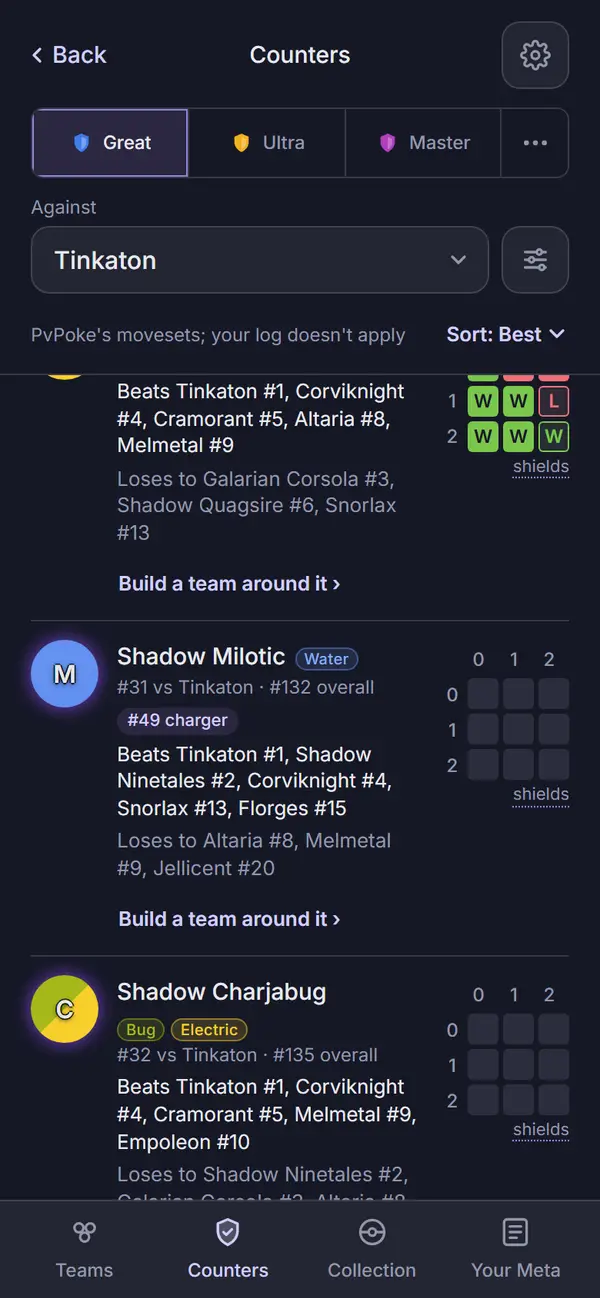
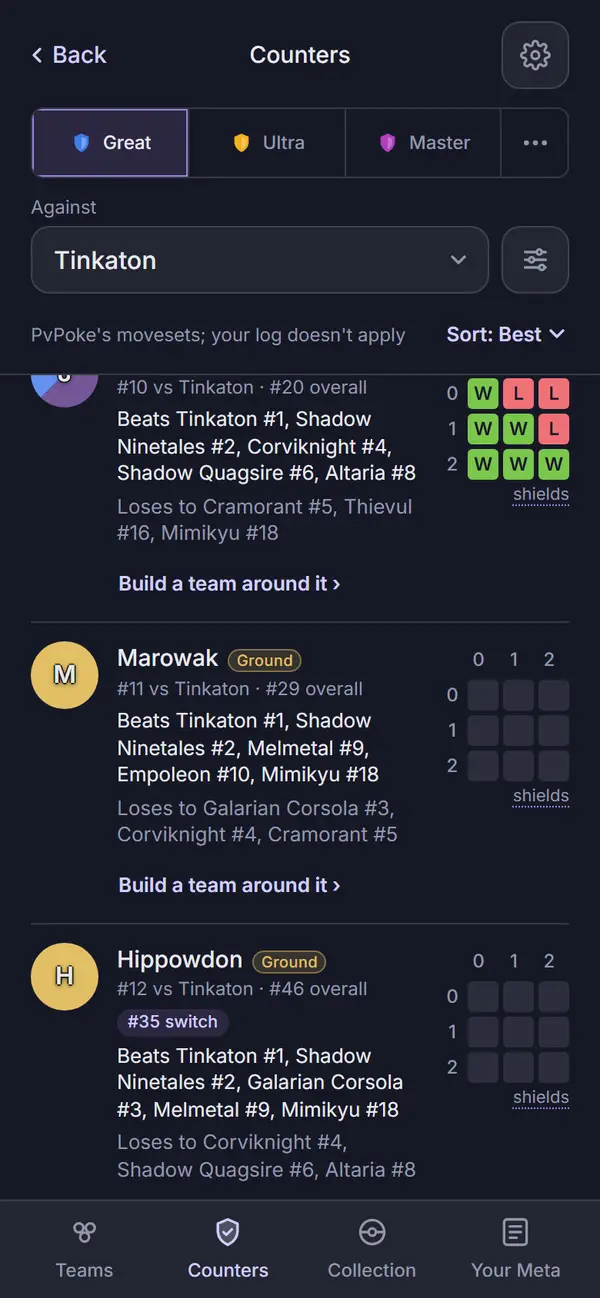
Design: Counters error and loading captures, records after the fix wave
screens.mjs: counters-error (the Worker wrapper answers the next counters
request with an error; the script checks the line, Try again, no empty
state and no line, taps Try again and waits for rows, then puts the
local diagnostics log back) and counters-loading, both enforced.
counters-vs-filling no longer races: before the tap, a wrapper on the
compute worker's own postMessage (set through its CDP session) stops at
a debugger statement right after the first grid batch's progress, and
both shots share that pause. The Filters step also checks that a wrapped
second row link starts where the first does.

counters.md: the new captures, the audit wording (axe passes text scrolled
out of an overflow: auto box, it does not skip it) and what the stricter
check found (20 more not-on-screen lines, each measured elsewhere, no
NEVER), the error open item moved to Findings with the league link,
ShieldGrid label, epoch, last batch, from=1 and link padding fixes,
rulings 19 to 23, and the runs. Re-converted: 08-counters (split at row
40 as before), counters-vs-filling, counters-against and
counters-against-scrolled; the others convert identical.

After sign-off rows (sign-off lines untouched): log-battle.md, new-set.md,
teams.md and settings.md, for the stricter audit's re-run on their pages
and, on Log a Battle, the shared grid's label and class.

Claude-Session: https://claude.ai/code/session_01QpDSW9ZhLWToL3VMBP1mJq

diff --git a/docs/design/audits/counters.md b/docs/design/audits/counters.md
@@ -7,7 +7,8 @@ components, Navigation tab" (back and jumps); the approved renders are the ones 
 2026-09-26 (Counters as one page with an Against picker, the full shield grid on its rows). Spec:
 `docs/superpowers/specs/2026-09-26-design-rest-of-app-design.md`, "Decisions" and "Counters (and
 Who Beats X)". Plan: `docs/superpowers/plans/2026-09-28-counters.md`. Branch `rest-of-app`,
-commits `fc35884` to `aedfd95`.
+commits `fc35884` to `aedfd95`, then the final review's fix wave (`3bbbcb6`, `c69f613`,
+`2f39cac` and the commit adding the new captures and this update).
 
 Counters and Who Beats X are now one page. An Against picker chooses the whole meta or one
 Pokémon. Against one Pokémon, each row shows all nine shield pairings. Rows are not links; each
@@ -28,37 +29,52 @@ taken). No sprite code changed.
 
 ## Screenshots
 
-Dark and light at 390px, one pair per state, all from the Task 6 fix round's `npm run web:audit`
-run on 2026-09-28 (the code committed as `aedfd95`, `PICK3_BUILD=874d675`), converted to WebP
-(600px wide, quality 72). `08-counters` is the whole page, 80 rows; at 600px it is 26732px tall,
-past WebP's limit, so it is two images split at a row divider (rows 1 to 40, then 41 to 80).
+Dark and light at 390px, one pair per state. The Counters pairs are from the final fix wave's
+`npm run web:audit` run on 2026-09-28 (the code committed as `2f39cac` plus that wave's
+`screens.mjs`, `PICK3_BUILD=874d675`), converted to WebP (600px wide, quality 72). Against the
+Task 6 images, `18b-counters-no-collection`, `counters-filters`, `23-counters-vs`,
+`24-counters-vs-outsider`, `counters-against-search` and `counters-unranked` converted byte for
+byte identical; `08-counters` changed where a second row link wraps (row 40), `counters-vs-filling`
+is held at a fixed point now, `counters-against` and `counters-against-scrolled` differ by a few
+dozen anti-aliased pixels. `settings-hub-no-collection` is unchanged from the Task 6 run (it
+converts identical). `08-counters` is the whole page, 80 rows; at 600px it is 26732px tall, past
+WebP's limit, so it is two images split at a row divider (rows 1 to 40, then 41 to 80).
 
 | State | Dark | Light |
 | --- | --- | --- |
 | `08-counters`, rows 1 to 40: the top header (meta.pick3.gg, cog), the league switcher, "Against: The whole meta (48)" with the filter icon, "PvPoke weights only (11 of 15 battles logged)" with "Sort: Best" on one line, then rows: token, name and types, "#1 vs meta · #156 overall", role tag, Beats and Loses, "70%" over "of the meta", "Build a team around it ›" | ![](img/08-counters-dark.webp) | ![](img/08-counters-light.webp) |
-| `08-counters`, rows 41 to 80: "View yours ›" beside Build on Flamigo; the last row, Charizard #80, ends above the tab bar | ![](img/08-counters-end-dark.webp) | ![](img/08-counters-end-light.webp) |
+| `08-counters`, rows 41 to 80: "View yours ›" beside Build on Flamigo; the last row, Charizard #80, ends above the tab bar. Row 40, at the end of the first image: "View your Shadow Rookidee ›" wraps to its own line and starts where "Build a team around it ›" does | ![](img/08-counters-end-dark.webp) | ![](img/08-counters-end-light.webp) |
 | `counters-filters`: the Filters sheet, "Own or can build" chosen, the filter icon reads 1, rows behind filtered (11 of 80), "Build a team around it ›  View your Meltan ›" on one line | ![](img/counters-filters-dark.webp) | ![](img/counters-filters-light.webp) |
 | `18b-counters-no-collection`: no filter icon, "Sort: Best" beside the picker, "Import your collection to mark the ones you own." on one line, rows with only "Build a team around it ›" | ![](img/18b-counters-no-collection-dark.webp) | ![](img/18b-counters-no-collection-light.webp) |
 | `settings-hub-no-collection`: the Settings hub opened from the Counters cog (see Visible changes) | ![](img/settings-hub-no-collection-dark.webp) | ![](img/settings-hub-no-collection-light.webp) |
 | `23-counters-vs`: from Your Meta, "‹ Back", "Counters" centred, the cog; "Tinkaton" in the picker; "PvPoke's movesets; your log doesn't apply"; each row's shield grid with "shields" under it; Seismitoad (9 of 9) at #1, Charizard (8 of 9) at #2 | ![](img/23-counters-vs-dark.webp) | ![](img/23-counters-vs-light.webp) |
-| `counters-vs-filling`: the same page mid-fill (the worker held at a debugger pause), scrolled to where filled grids end: one filled grid, then Shadow Milotic and Shadow Charjabug with empty cells, still in the incoming order (#31, #32) | ![](img/counters-vs-filling-dark.webp) | ![](img/counters-vs-filling-light.webp) |
+| `counters-loading`: the same page mid-fill, at the top: "Playing every shield pairing on this phone" and its bar at 10 of 80, then Shadow Ninetales and Corviknight with their grids in | ![](img/counters-loading-dark.webp) | ![](img/counters-loading-light.webp) |
+| `counters-vs-filling`: the same pause, scrolled to where filled grids end: #10's grid in, then Marowak (#11) and Hippowdon (#12) with empty cells, still in the incoming order | ![](img/counters-vs-filling-dark.webp) | ![](img/counters-vs-filling-light.webp) |
 | `24-counters-vs-outsider`: against Shadow Dragonite (not in PvPoke's meta group, 300 species simulated on the device), grids filled, "#1 vs Shadow Dragonite ·" then "#63 overall" kept together | ![](img/24-counters-vs-outsider-dark.webp) | ![](img/24-counters-vs-outsider-light.webp) |
 | `counters-against`: the Against sheet idle: the search at the top, focused, and "The whole meta ›" under it | ![](img/counters-against-dark.webp) | ![](img/counters-against-light.webp) |
 | `counters-against-search`: "mar" typed, 15 matches in the compact token grid, The whole meta hidden | ![](img/counters-against-search-dark.webp) | ![](img/counters-against-search-light.webp) |
 | `counters-against-scrolled`: the same matches box scrolled to its end (Mareanie to S. Mareep) | ![](img/counters-against-scrolled-dark.webp) | ![](img/counters-against-scrolled-light.webp) |
 | `counters-unranked`: `#/counters?vs=magikarp`: "Magikarp" in the picker, the filter icon, no line and no Sort, then "PvPoke does not rank Magikarp in Great League, so pick3 has no moveset to simulate it with." | ![](img/counters-unranked-dark.webp) | ![](img/counters-unranked-light.webp) |
+| `counters-error`: a run that failed (the capture's Worker wrapper answers the next counters request with an error), the whole meta with a collection: the Against row and the filter icon, no line and no Sort, then "Counters could not be computed." with a violet "Try again" | ![](img/counters-error-dark.webp) | ![](img/counters-error-light.webp) |
 
 The script checks as it shoots: the sub header's title is centred (it logged "-0.0px") and Back
 reads "Back" and lands on `#/meta`; the row link text starts on the name column ("0.0px"; fails
-past 1px); `counters-filters` fails if the first row with two links wraps them; the no-collection
-page has no filter icon and the exact Import line; `counters-unranked` has no line and no Sort;
-`counters-vs-filling` waits for a filled cell, an empty cell and the loading bar;
-`counters-against-scrolled` fails if "mar" stops filling the box.
+past 1px); `counters-filters` fails if the first row with two links wraps them, and if any
+wrapped second link starts off the first ("wrapped second links: 4, off the first by
+[0,0,0,0]px"); the no-collection page has no filter icon and the exact Import line;
+`counters-unranked` has no line and no Sort; `counters-error` fails unless the line is exactly
+"Counters could not be computed.", Try again is there and neither the empty state nor the line is,
+and it taps Try again and waits for rows (the failure's local diagnostics entry is put back after,
+so the Settings captures are unchanged); the worker holds itself at a `debugger` statement right
+after it posts the first grid batch's progress (a wrapper on its `postMessage`, set through its
+CDP session before the tap), so `counters-loading` and `counters-vs-filling` always find a filled
+grid, an empty one and the loading bar, and the loading bar must read "Playing every shield
+pairing"; `counters-against-scrolled` fails if "mar" stops filling the box.
 
-Not captured, covered by `apps/web/test/counters.test.tsx`: the loading bar and its grid stage
-("Playing every shield pairing on this phone"; in `counters-vs-filling` it is above, scrolled away);
-the "shields" `Term` open; the Sort dropdown open (a native picker); "Nothing here yet. Try another
-filter."
+Not captured, covered by `apps/web/test/counters.test.tsx`: the "shields" `Term` open; the Sort
+dropdown open (a native picker); the three empty lines ("Nothing here yet. Try another filter."
+when the filter hides every row, "Nothing in Great League beats Azumarill in any shield pairing.",
+"No counters to show."); the error state against one opponent and without a collection.
 
 ## Grid time
 
@@ -67,29 +83,44 @@ The spec's estimate was about 0.5 s for 720 battles (80 rows, nine each) in Node
 - **Node, desktop (Task 1):** 280 to 430 ms for 720 battles, two runs each against Altaria,
   Charjabug and Quagsire (an outsider).
 - **The built app, desktop (Task 6):** the outsider run, Shadow Dragonite, took 160 to 181 ms for
-  its grids across runs (165 ms in the run these images come from, after simulating 300 species;
-  the whole result at 516 ms). The Tinkaton run logged 4321 ms, but that number includes the
-  deliberate debugger pause that holds the worker for `counters-vs-filling`, so it is not a grid
-  time. An earlier unheld probe of Tinkaton: 10 batches of 8 rows in about 210 ms.
+  its grids across runs (165 ms in the Task 6 run). The Tinkaton run's number includes the
+  deliberate debugger pause that holds the worker for `counters-loading` and
+  `counters-vs-filling`, so it is not a grid time. An earlier unheld probe of Tinkaton: 10
+  batches of 8 rows in about 210 ms.
 
 Not measured on a phone (see Open items).
 
 ## Automated checks
 
-- [x] `npm run web:audit` clean for this page's screens (all ten names above in `AUDIT_ENFORCED`,
-      plus `settings-hub-no-collection`): the Task 6 fix round's run on the `aedfd95` code with
-      `PICK3_BUILD=874d675` exited 0 with zero findings on every enforced name in both themes and
-      every enforced name captured. No NEVER line; the only "Not on screen, unmeasured" lines are
-      the known eight `settings-about-leaves` ones, each measured in `settings-about`. 67 findings
-      remain on screens not yet redesigned (Welcome, Import, Scan list, Report, Add Pokémon), none
-      failing. I did not re-run it for this record. The audit does not check text scrolled out of
-      a fixed-height list (Open items); `counters-against-scrolled` covers Counters' one such list.
-- [x] no console errors: the run printed no "Browser errors" section.
+- [x] `npm run web:audit` clean for this page's screens (all twelve Counters names above in
+      `AUDIT_ENFORCED`, plus `settings-hub-no-collection`): the final fix wave's run
+      (`PICK3_BUILD=874d675`, the code as committed in `2f39cac` plus that wave's `screens.mjs`)
+      exited 0 with zero findings on every enforced name in both themes and every enforced name
+      captured. No NEVER line and no "Browser errors" section. 67 findings remain on screens not
+      yet redesigned (Welcome, Import, Scan list, Report, Add Pokémon), none failing.
+- [x] the audit now checks text scrolled out of a scroll box (`3bbbcb6`, ruling 12). axe clips
+      text to `overflow: hidden` only, so it passed text scrolled wholly out of an
+      `overflow: auto` box against the box's background, and the audit counted that text as
+      measured: the NEVER check could not fire on it. axe passes such text; it does not skip it.
+      Every node axe passes is now asked whether any of its lines is on screen; one that is not
+      is "not on screen, unmeasured", like an undecided node out of sight. `ui:audit` has a
+      fourth self-check for it (ten lines in a 100px box), which fails on the old tool. What the
+      new check turned up across the whole web run (the same code audited with the old tool, then
+      the new): the "Not on screen" list grew from the eight `settings-about-leaves` lines to 28,
+      and each of the 20 new lines is measured in another capture of its page in the same theme,
+      so none is NEVER: `settings-about-leaves` (the build line and "Check for updates", measured
+      in `settings-about`), `teams-filters-excluded` (the Source note, measured in
+      `teams-filters-sheet`), `counters-against-search` (the last row's "M" initial, measured in
+      its scrolled capture) and `counters-against-scrolled` (the first row, measured in
+      `counters-against-search`). The 67 findings on screens not yet redesigned are the same 67. Log a Battle's and New set's matches boxes, Build's picker list
+      and the sheets hold every line on screen in their captures, so nothing there is hidden and
+      no capture was added. `npm run meta:audit` (no report, so hidden text would fail at once)
+      exit 0 with no "scrolled out" line. `npm run ui:audit`: "gallery audit: clean in dark and
+      light", all four self-checks pass.
+- [x] no console errors: the web run printed no "Browser errors" section.
 - [x] `npm run lint`, `npm run typecheck`, `npm test`, `npm run check-colors`, `npm run
-      check-tokens`: re-run for this record on 2026-09-28 on `aedfd95`. lint exit 0; typecheck
-      exit 0; 147 files, 1426 tests passed; check-colors exit 0; "check-tokens: ok". `npm run
-      ui:audit` (the ui Select rule now shared with the Against picker): "gallery audit: clean in
-      dark and light" in Task 6, not re-run here.
+      check-tokens`: re-run on 2026-09-28 on the fix wave's code. lint exit 0; typecheck exit 0;
+      147 files, 1436 tests passed; check-colors exit 0; "check-tokens: ok".
 
 ## Aesthetics
 
@@ -113,14 +144,14 @@ Not measured on a phone (see Open items).
       Meta (`23-counters-vs`, `counters-vs-filling`, `24-counters-vs-outsider`).
 - [x] rows align; gutters and the 8px base hold: one gutter from the header to the last row; link
       text on the name column (measured, 0.0px); grids beside the text with room, none crowding it
-      (`23-counters-vs`). Exception under Open items: a long "View your Shadow Rookidee ›" wraps to
-      its own line, about 2px left of the link above it (`08-counters`, row 40).
+      (`23-counters-vs`). A long "View your Shadow Rookidee ›" wraps to its own line and starts
+      where the link above it does (`08-counters`, row 40; measured, 0px, fails past 1px).
 - [ ] sprites unchanged: cannot confirm (no sprite build, see the top). No sprite code changed.
 - [x] at most one line of text before the first result: the facing line, the one-opponent line or
       the Import line, each one line with Sort beside it or above it (`08-counters`,
       `23-counters-vs`, `18b-counters-no-collection`); none under an unranked opponent
       (`counters-unranked`). The two description paragraphs are gone.
-- [x] light as readable as dark: eleven matched pairs, and the audit's contrast pass is clean in
+- [x] light as readable as dark: thirteen matched pairs, and the audit's contrast pass is clean in
       both themes.
 
 ## Functionality
@@ -133,7 +164,8 @@ Not measured on a phone (see Open items).
       replaces it, your decision); the ownership filter and the paths to your Pokémon and to Build
       (tested); the honesty lines, now "PvPoke's movesets; your log doesn't apply" and the
       unranked empty state (`23-counters-vs`, `counters-unranked`); a meta.pick3.gg link lands in
-      its league (tested); the facing weight line on the whole meta (`08-counters`).
+      its league and then lets the league switcher change it (tested); a failed run says so with
+      Try again (`counters-error`, tested); the facing weight line on the whole meta (`08-counters`).
 - [x] every control does what its label says (tests): the cog opens Settings (and the capture now
       opens it from this cog); the picker reads "The whole meta (48)" or the opponent and opens
       Against; typing filters species, The whole meta shows only with an empty search; choosing
@@ -149,19 +181,23 @@ Not measured on a phone (see Open items).
       searching (`counters-against`, `counters-against-search`, `counters-against-scrolled`).
 - [x] icon buttons named; focus visible: "Settings", "meta.pick3.gg, the community meta",
       "Filters" or "Filters, 1 on", the picker named by its label and value ("Against Tinkaton"),
-      the Sort combobox named "Sort", the grid read as "Wins N of 9 shield pairings" (tests); the
-      picker shares the ui Select's focus ring.
+      the Sort combobox named "Sort", the grid read as "Wins N of 9 shield pairings", or while its
+      row fills "Shield pairings still being played" (none in) or "Wins N of M so far" (tests);
+      the picker shares the ui Select's focus ring.
 - [x] product rules: everything runs on the device; no new outbound call; `index.html` and
       `connect-src` unchanged; the collection stays in IndexedDB. Assumptions: the one-opponent
       line and the "shields" `Term` say what each cell is (PvPoke's movesets and default IVs).
-- [x] tests cover the new behavior: `apps/web/test/counters.test.tsx` (23 tests: headers and
-      Back, the picker and the Against sheet, replace-navigation, the line and Sort, the Filters
-      sheet, no collection, rows not links, the grid and its `Term`, the links, the round trip,
-      loading and empty cells, per-list scroll, re-sort in place, both empty messages);
-      `countersGrid.test.tsx` (5: the stream, drops on a league or opponent change, grids keep
-      filling off the page, the WorkerHost routing); `shieldGrid.test.tsx` (6);
-      `packages/engine/test/counters/counters.test.ts` (the grid, its order, batches, the
-      movesets); `store.test.tsx` and `yourMetaScreen.test.tsx` (the back mark).
+- [x] tests cover the new behavior: `apps/web/test/counters.test.tsx` (31 tests: headers and
+      Back, the linked league and letting go of it, the picker and the Against sheet,
+      replace-navigation, the line and Sort, the Filters sheet, no collection, rows not links, the
+      grid and its `Term`, the links, the round trip, loading and empty cells, a run left behind
+      by a collection change, per-list scroll, re-sort in place, the unranked and three other
+      empty messages, the error state four ways); `countersGrid.test.tsx` (5: the stream, drops on
+      a league or opponent change, grids keep filling off the page, the WorkerHost routing);
+      `shieldGrid.test.tsx` (7, with the filling labels);
+      `packages/engine/test/counters/counters.test.ts` (the grid, its order, every batch but the
+      last, the movesets); `store.test.tsx` (the back mark with and without an opponent;
+      countersError) and `yourMetaScreen.test.tsx` (the back mark).
 
 ## Findings and fixes
 
@@ -181,6 +217,16 @@ Not measured on a phone (see Open items).
 | Task 6: the audit did not report Against matches scrolled out of the box. | `counters-against-scrolled` (ruling 18); the tool fix is ruling 12. | `f694bb7` |
 | Controller, on `23-counters-vs`: the row links started at the row's left edge, under the token. | They start on the name column; the script measures it. | `aedfd95` |
 | Task 6 review: under an unranked opponent, the one-opponent line and Sort sat over nothing. | Both hidden there (ruling 17). | `aedfd95` |
+| Final review 1, Important: the audit trusted axe's passes, and axe passes text scrolled wholly out of an `overflow: auto` box (it clips to `overflow: hidden` only), so text never on screen counted as measured and NEVER could not fire. | Every pass is asked whether a line of it is on screen; one that is not is unmeasured. A fourth `ui:audit` self-check (it fails on the old tool). The full web run found 20 more "not on screen" lines, all measured in another capture of their page; no NEVER, no capture added (Automated checks). | `3bbbcb6` |
+| Final review 2, Important (the open item from Task 7): a failed run stored an empty result that counted as fresh, so the page never asked again; against one opponent or with no collection it read "Nothing here yet. Try another filter." | `countersError` in the store; Counters shows "Counters could not be computed." with "Try again" (ruling 19), line and Sort hidden; tested four ways; `counters-error`, enforced. The empty lines now say what is true (ruling 20). | `c69f613`, captures in the commit adding this row |
+| Final review 3, Important: a meta.pick3.gg link kept its league on the route, so every other league the player picked switched straight back. | Once the linked league is in play the route is replaced without it (ruling 23); tested: Ultra lands, then Great stays. | `c69f613` |
+| Final review 4: a grid still filling read "Wins 0 of 9 shield pairings". | "Shield pairings still being played", or "Wins N of M so far" (ruling 21); tested. | `2f39cac` |
+| Final review 5: the larger grid's modifier was `.row`, the global flex utility in `base.css`. | `.fo-grid-lg`; `23-counters-vs` and `24-counters-vs-outsider` convert byte for byte identical. | `2f39cac` |
+| Final review 6 (deferred in Task 2): an import or a new log mid-run re-landed rows with the old owned marks. | `countersEpoch`, bumped by an import, the log, Forget and a facing change; a run from an older epoch lands nothing and Counters asks again; tested. | `2f39cac` |
+| Final review 7 (deferred in Task 2): the last batch posted one unsorted partial just before the sorted result; the host's comment said partials always come with an opponent. | Every batch but the last is reported (ruling 22); the comment names both exceptions. | `2f39cac` |
+| Final review 8 (deferred in Task 6): `counters-vs-filling` could race on a fast machine; the loading bar was not captured. | The worker holds itself at a `debugger` statement after the first batch's progress; `counters-loading` (at the top) and `counters-vs-filling` share the pause, both enforced. | the commit adding this row |
+| Final review 9 (deferred in Task 4): no test for `#/counters?from=1` without an opponent. | A `store.test.tsx` round trip. | `2f39cac` |
+| Final review 10 (open item from Task 6): a wrapped "View your Shadow Rookidee ›" sat about 2px left of the link above it. | Every row link keeps 8px on the left and 4px on the right (0 on the last); the script checks each wrapped second link (0px). | `2f39cac` |
 
 ## Rulings
 
@@ -218,6 +264,7 @@ From the controller during the build:
     not that list's saved one. Nothing wrong lands. [If wrong: a scroll, on a rare path.]
 12. **The audit's scroll-clip gap is fixed in this branch's final fix wave,** with a full
     `web:audit` re-run. [If wrong: a bigger final wave, possibly new findings on signed pages.]
+    Done in `3bbbcb6`; the re-run found nothing hidden on a signed page.
 
 Made while building:
 
@@ -234,13 +281,35 @@ Made while building:
 18. **`counters-against-scrolled` is a tenth enforced capture,** for the rule that a scrolling
     sheet list needs a scrolled capture. [If wrong: one capture.]
 
+From the final review's fix wave:
+
+19. **A failed run reads "Counters could not be computed." with a secondary "Try again"**, as
+    Teams does; the page does not ask again on its own, but a new league, source, import or log
+    clears the error and it asks then. [If wrong: the line, or a retry on its own.]
+20. **The empty lines:** "Nothing here yet. Try another filter." only when the ownership filter
+    hid every row; "Nothing in <league> beats <name> in any shield pairing." when nothing beats
+    one opponent (the engine keeps a counter only when it wins at least one shield scenario);
+    "No counters to show." on the whole meta. [If wrong: three strings.]
+21. **A grid still filling reads "Shield pairings still being played"** with no pairing in, and
+    "Wins N of M so far" with some. [If wrong: one label.]
+22. **The last grid batch is not reported;** the sorted result follows it at once. [If wrong: one
+    extra partial.]
+23. **A linked league leaves the route once it is in play.** An unknown league id stays on the
+    route and is ignored, as before. [If wrong: one navigate.]
+
 ## Visible changes outside Counters
 
 - **The shield grid is shared** (`apps/web/src/components/ShieldGrid.tsx`, moved from Log a
   Battle's `OpponentCard`). Log a Battle looks the same: `21-log-battle` and `log-battle-card`
   match their signed images (compared in Task 6; I compared `log-battle-card` side by side
-  again). For screen readers its grid is no longer hidden: it reads "Wins N of 9 shield
-  pairings" (ruling 10). New: empty cells while a row fills, and a larger row size.
+  again; in the final fix wave `21-log-battle` and `log-battle-card` convert byte for byte
+  identical). For screen readers its grid is no longer hidden: it reads "Wins N of 9 shield
+  pairings" (ruling 10). New: empty cells while a row fills, with their own label (ruling 21; a
+  card's grid is always complete), and a larger row size (`.fo-grid-lg`).
+- **The audit tool** (`scripts/audit.mjs`) no longer counts text axe passes as measured when it
+  is scrolled out of its box, for every page (see Automated checks). `log-battle.md`,
+  `new-set.md`, `teams.md` and `settings.md` carry an after sign-off row for it (the last two
+  for the lines the check lists on their pages, each measured in another capture).
 - **The route's back mark:** `#/counters?vs=<id>&from=1`. Your Meta's "Who beats it" links carry
   it; meta.pick3.gg links never do, so they get the top header.
 - **The grid in the engine and the worker:** `counterGrids` and `CounterEntry.grid` in the engine;
@@ -253,8 +322,10 @@ Made while building:
 - **The Settings no-collection shot is back on the Counters cog,** restoring the check that
   Counters' cog opens Settings (Settings' round-3 open item). `settings.md` has an after sign-off
   note; its image pair is replaced (the page behind the sheet is now Counters).
-- **`screens.mjs`:** ten Counters captures, all enforced; it logs the grid time through a Worker
-  wrapper (automation only; the app has no hook).
+- **`screens.mjs`:** twelve Counters captures, all enforced; it logs the grid time through a
+  Worker wrapper, which can also answer one counters request with an error for `counters-error`,
+  and it holds the compute worker with a wrapper on the worker's own `postMessage` for
+  `counters-loading` and `counters-vs-filling` (automation only; the app has no hook).
 
 ## Open items for Travis
 
@@ -262,32 +333,22 @@ Made while building:
   (`18b-counters-no-collection`) instead of on the line (`08-counters`), so the Import line fits
   one line (ruling 16). Keep, or shorten the Import line and keep Sort in one place.
 - **Two row links share a line only for short names.** "Build a team around it ›  View your
-  Meltan ›" fits; "View your Shadow Rookidee ›" wraps to its own line, about 2px left of the link
-  above it (`08-counters`, Shadow Corviknight, row 40). Keep the wrap, or stack the links always.
+  Meltan ›" fits; "View your Shadow Rookidee ›" wraps to its own line, now starting where the link
+  above it does (`08-counters`, Shadow Corviknight, row 40). Keep the wrap, or stack the links
+  always.
 - **The sub header carries only Settings,** not the meta.pick3.gg link, as on the Pokémon page
   (`23-counters-vs`). Say if it should carry both.
-- **The audit tool does not check text scrolled out of a fixed-height list** (it trusts axe, which
-  skips clipped text). Being fixed in this branch's final fix wave (ruling 12), with a full
-  re-run; until then `counters-against-scrolled` covers Counters. Log a Battle's and New set's
-  token boxes may hide the same.
 - **The Teams Filters sheet's title is left-aligned;** Counters' sheets and Settings centre theirs.
   Not changed here.
-- **A failure is said only on the whole meta with a collection.** When counters cannot be computed,
-  the page gets no rows and the reason "Counters could not be computed" in the facing line. The old
-  page always showed that line; now it shows only on the whole meta with a collection. Against one
-  opponent, or without a collection, a failure reads "Nothing here yet. Try another filter."
-  Not tested, not captured.
+- **The error state's words and its retry** (ruling 19): "Counters could not be computed." with
+  "Try again", no retry on its own (`counters-error`). Say if it should name a reason.
 - **Grid time on a phone:** measured only on a desktop (Grid time). `gridMs` is in the result but
   shown nowhere, so a phone check needs the dev tools.
 - **Smaller, deferred during the build:**
-  - An import while grids are filling can re-land rows with the old owned marks.
-  - The last batch posts one extra unsorted partial before the result; the host's comment says
-    partials always come with an opponent (not for an unranked one); no unit test for the
-    worker's no-grid branch.
+  - No unit test for the worker's no-grid branch (the whole meta, an unranked opponent); the
+    captures cover both paths.
   - The engine test's 2-shields-against-0 check holds for the fixture's pairs only; `gridMs` also
     times the final sort.
-  - No test for `from=1` without an opponent.
-  - `counters-vs-filling` can race on a fast machine (it fails loudly if so).
   - Long names in the Against grid are cut ("S. Alolan M...", "S. Marshto..."), as in Log a
     Battle's grid (`counters-against-search`).
 

diff --git a/docs/design/audits/teams.md b/docs/design/audits/teams.md
@@ -277,6 +277,7 @@ source, a failed run is followed by at most one more, not a loop").
 | After sign-off, from the Team Analysis revision's final review (a controller ruling on which three threats the engine keeps): the open row prints `explanation.why`, whose "Biggest risk: X" names the first key threat. The engine used to keep the three most common non-wins, so a close matchup could be named over one nobody on the team beats. | The engine keeps unanswered threats first (best rating under 450), then close ones, meta rank within each (`f05e48c`, `analysis.md` Ruling 6), so "Biggest risk" now names the first unanswered threat. The captured Teams rows' lines did not change. | `f05e48c`, and the commit adding this row |
 | After sign-off, from piece 3 (Play, branch `play-redesign`, final review I2): the update toast ("New version ready" with Reload, shown on any page, Teams included) shares its pill and button rules with the app's notices. Piece 3's contrast and target fixes changed both rules, which this record's list below had called unchanged. | `.update-toast button` is at least 44×44 (`min-width`/`min-height: var(--tap)`, `padding: 0 16px`, `flex: none`) on `--accent-lo` under `--on-accent`, clearing 4.5:1 in both themes (it was `--accent` under `#fff`, `padding: 6px 12px`, about 43×30); the `.update-toast` pill's padding went from `8px 8px 8px 16px` to `4px 4px 4px 16px`, so the taller button keeps the pill's height. No Teams capture shows the update toast, so none is re-converted. | `852dc3e`, `7a40b6a`, and the commit adding this row |
 | After sign-off, exclusion by the Pokémon as it battles (Travis, 2026-09-27; `pokemon-detail.md`): excluding one copy left the same Pokémon on teams, built from another copy, and the Filters sheet listed excluded copies by their own names with no way to clear them all. | The Filters sheet's "Excluded Pokémon" lists one chip per excluded Pokémon by the name it battles as ("Melmetal", "Shadow Greninja"), each X named "Include X again", the chip now a 44px target; "Include all again" (violet, `Button variant="secondary"`) opens a default-tone `ConfirmSheet` ("Include every excluded Pokémon again?", "They can appear in team recommendations again.", Include all / Keep them out); with none excluded, "None excluded. Turn a Pokémon off on its page to leave it out of teams." Teams' filter count still counts exclusions as one. `screens.mjs` seeds two exclusions for the sheet and restores the saved settings after, taken after `teams-empty` (the first Teams run has no saved settings to seed); `teams-empty` now seeds every species id as `excludedSpecies`, not every specimen id, so no old-style list triggers the conversion. New capture `teams-filters-excluded` (enforced, grouped with `teams-filters-sheet`): the list scrolled into view, ![](img/teams-filters-excluded-dark.webp) ![](img/teams-filters-excluded-light.webp). Re-converted: `teams-filters-sheet` (dark and light), which now shows the two chips at its foot. `web:audit` 2026-09-27 (`c6b4819` code, `PICK3_BUILD=874d675`): exit 0, zero findings on every enforced Teams name in both themes, no NEVER line; checked by eye in both themes. | `c8d080d`, `c6b4819`, and the commit adding this row |
+| After sign-off, round 3 (Counters final review, 2026-09-28): the audit trusted axe's passes, and axe passes text scrolled wholly out of an `overflow: auto` box, so text never on screen could count as measured. | `scripts/audit.mjs` now asks every pass whether a line of it is on screen (`counters.md`, Automated checks). Re-run: `web:audit` (`PICK3_BUILD=874d675`) exit 0, zero findings on every enforced Teams name in both themes. The stricter check lists one Teams line per theme as not on screen: in `teams-filters-excluded` the Source note ("Applies when Source is GBL, Tournaments...") is scrolled up out of the sheet, and it is measured in `teams-filters-sheet`, so it is not NEVER and no capture was added. No image changed. | `3bbbcb6`, and the commit adding this row |
 
 Visible changes outside Teams, from this branch:
 - Your Meta's hint, shown when another Source is picked, now says to pick "Your meta" as the

diff --git a/docs/design/audits/settings.md b/docs/design/audits/settings.md
@@ -171,6 +171,7 @@ it; the trainer counter (it shows only once a real count arrives, and automation
 | Final review, Minor: test gaps (Sharing off on the hub after Stop and delete; the Import log error sentence; Forget closing the sheet; the neutral line checked one level up; an unrestored `window.confirm` spy). | Each is covered or fixed in `settings.test.tsx`. Test only. | `8b40f19` |
 | After sign-off, exclusion by the Pokémon as it battles (Travis, 2026-09-27; `pokemon-detail.md`): Settings had no place to see or clear what is left out of teams. | Your data gains an "Excluded from teams" block after Your log: one chip per excluded Pokémon by the name it battles as, each X named "Include X again", and "Include all again" (violet, `Button variant="secondary"`) behind a default-tone `ConfirmSheet` ("Include every excluded Pokémon again?", "They can appear in team recommendations again.", Include all / Keep them out). With none excluded it reads "None excluded. Turn a Pokémon off on its page to leave it out of teams." The list is the same component as Teams' Filters sheet (`ExcludedList`). `settings.test.tsx` pins the order, the line, X, the confirm's cancel and confirm. New captures, both enforced: `settings-your-data-excluded` (two seeded exclusions, Melmetal and Shadow Greninja, the saved settings restored after) ![](img/settings-your-data-excluded-dark.webp) ![](img/settings-your-data-excluded-light.webp) and `settings-confirm-include-all` ![](img/settings-confirm-include-all-dark.webp) ![](img/settings-confirm-include-all-light.webp). Re-converted: `settings-your-data` (dark and light), which now ends with the block and its "None excluded" line. `web:audit` 2026-09-27 (`c6b4819` code, `PICK3_BUILD=874d675`): exit 0, zero findings on every enforced Settings name in both themes, no NEVER line; checked by eye in both themes. | `c6b4819`, and the commit adding this row |
 | After sign-off, round 3 (Counters, 2026-09-28): the no-collection hub was shot from the Teams cog (Ruling 12), so no capture checked that the Counters cog opens Settings. | `screens.mjs` opens it from the Counters top header's cog again, with the same hub checks; the Teams-side step is gone. The pair above is re-converted from the Counters record's run (`aedfd95` code, `PICK3_BUILD=874d675`): the same hub, "Import a CSV" alone, "No collection yet · 0 battles", no Forget, with Counters behind the sheet. `web:audit` exit 0, zero findings on every enforced name in both themes, no NEVER line; checked by eye in both themes. | `f694bb7`, and the commit adding this row |
+| After sign-off, round 3 (Counters final review, 2026-09-28): the audit trusted axe's passes, and axe passes text scrolled wholly out of an `overflow: auto` box, so text never on screen could count as measured. | `scripts/audit.mjs` now asks every pass whether a line of it is on screen (`counters.md`, Automated checks). Re-run: `web:audit` (`PICK3_BUILD=874d675`) exit 0, zero findings on every enforced Settings name in both themes. `settings-about-leaves` now lists six lines per theme as not on screen, not four: the build line ("pick3 build 874d675, ...") and "Check for updates" join Game data and the App head, all scrolled up under the header and all measured in `settings-about`, so none is NEVER and no capture was added. No image changed. | `3bbbcb6`, and the commit adding this row |
 
 ## Rulings
 

diff --git a/docs/design/audits/log-battle.md b/docs/design/audits/log-battle.md
@@ -204,6 +204,7 @@ capture possible.
 | Final review M2: the `log-battle-saved` capture's re-raise returned early when a notice was up (which could clear before `mustShow` read it) and logged real Wins that later steps inherited (`log-battle-likely` read "1 logged"). | Each shot taps any notice away, waits for it to go and logs one Win for a fresh notice; the running set is put back after the step. `log-battle-likely` now reads "0 logged"; `log-battle-saved` reads 2 (dark) and 3 (light). web:audit exit 0 on `e80cc9c`. | `75c5fce`, `e80cc9c` |
 | Final review M3 and M4: `.slot-wrap`'s new rules also matched Build's wrap; `CLOSE_MARGIN` was a second meaning of "close" with no word on why. | Log a Battle's stretch and `min-width` are scoped to `.opp-slots > .slot-wrap`. The first pass also scoped `position: relative`, which Build's `.pick-side` needs (pre-branch, shared): Build's remove button drew off its card and web:audit hung in the build step; `e80cc9c` puts that one declaration back on the shared rule, Build's captures convert identical to its signed record, and the capture script now fails after three remove taps that leave a pick. `CLOSE_MARGIN` carries a comment on the wider, visual band; the open item stays for Travis. | `75c5fce`, `e80cc9c` |
 | Final review M5: Review focus 3 said an edit with sharing off does not send, "both tested", with no such test; the redirect was credited to a Log a Battle test that does not exist. | `store.test.tsx` "with sharing off, an edit does not try to send" (device mocked eligible, no `/battles` call after `editBattle`; it fails with the sharing check removed from `shareSync`: 2 calls). The redirect cites `newSet.test.tsx`'s "Cancel escapes Log a Battle's own no-set redirect" describe block. | this record's commit |
+| After sign-off, round 3 (Counters final review, 2026-09-28): the audit trusted axe's passes, and axe passes text scrolled wholly out of an `overflow: auto` box, so text in this page's matches box that was never on screen would have counted as measured. The shared shield grid also changed for Counters. | `scripts/audit.mjs` now asks every pass whether a line of it is on screen (`counters.md`, Automated checks). Re-run: `web:audit` (`PICK3_BUILD=874d675`) exit 0, zero findings on every enforced Log a Battle name in both themes, and no Log a Battle text in the "Not on screen" list: nothing in this page's captures is scrolled out of its box, so no capture was added. The grid's larger Counters size is `.fo-grid-lg` now (was `.row`), and a grid with empty cells reads "Shield pairings still being played" or "Wins N of M so far"; this page's card always has all nine, so it still reads "Wins N of 9 shield pairings". `21-log-battle`, `log-battle-card`, `log-battle-likely`, `log-battle-saved` and `log-battle-wide` convert byte for byte identical to the images above; `log-battle-edit` differs only in its "Logged" time, so its pair is kept. | `3bbbcb6`, `2f39cac`, and the commit adding this row |
 
 ## Decisions and rulings (plan `2026-09-26-play.md`, `global-constraints.md`)
 

diff --git a/docs/design/audits/new-set.md b/docs/design/audits/new-set.md
@@ -134,6 +134,7 @@ button's `disabled` state and the slot contents, tested directly).
 | Task 7 round 2, seen in the captures (shared with Log a Battle, whose slots use the same rule): opponent slot names ellipsized at 84px instead of wrapping. | `.opp-slot .small` wraps on word breaks with no ellipsis, and this page's slots inherit the fix since they share the class; no capture in this record happens to fill a slot with a long enough name to show the wrap (`new-set-searching`'s Matches are short names), but the shared rule and its test (`apps/web/test/opponentCard.test.tsx`, `logBattle.test.tsx`) cover it. | `7a40b6a` |
 | Final review I1: a From pick3 tap called `startSet` at once (the pre-branch behavior), though the spec says tapping one fills the slots; since `startSet` closes the running set, one tap ended the current team with no look at the picks. This record said both ("fills the slots and starts that team"). | The tap fills the three slots with the team's picks and keeps its `TeamRef` (moves included); Start set starts that team, moves and all, while the slots still hold it; clearing any slot drops it, so a team refilled by hand starts without moves. Recent teams stay one tap. Two `newSet.test.tsx` cases (the tap fills three slots without calling `startSet`, then Start set saves the team with its specimens and moves; a cleared slot drops the moves). No capture taps a row, so `22-new-set` and `new-set-searching` show the same states as before. | `8403291` |
 | Travis, 2026-09-26, on this record's open item (From pick3 filled, Recent teams started at once): "Let's make the two changes. The two you called are ok." | A Recent teams tap fills the three slots like a From pick3 tap; Start set starts it with its moves and specimens. `newSet.test.tsx`: the tap fills three slots without calling `startSet` or saving, then Start set saves the same team, moves included (RED before). `web:audit` on `c427979`: both captures converted byte for byte identical (no capture taps a row). | `7a1e32b` |
+| After sign-off, round 3 (Counters final review, 2026-09-28): the audit trusted axe's passes, and axe passes text scrolled wholly out of an `overflow: auto` box, so matches scrolled out of this page's box would have counted as measured. | `scripts/audit.mjs` now asks every pass whether a line of it is on screen (`counters.md`, Automated checks). Re-run: `web:audit` (`PICK3_BUILD=874d675`) exit 0, zero findings on `22-new-set` and `new-set-searching` in both themes, and no New Set text in the "Not on screen" list: "azu" fills less than the box, so nothing was hidden and no capture was added. Both pairs convert byte for byte identical to the images above. | `3bbbcb6`, and the commit adding this row |
 
 Also seen in the captures during this task, not tied to a named review finding: New Set's "Start
 set" button was a small, left-aligned button before this pass; it is now full width, matching every
